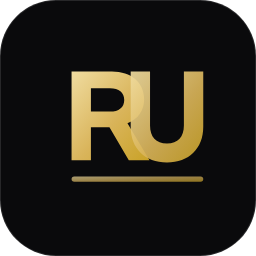
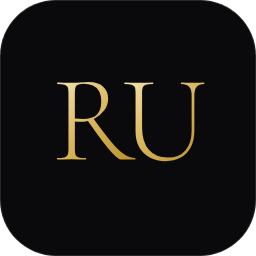
Entrada no Modelo 2: monograma RU tipografico, cartao de vidro; R2ON no endereco que abre
Claude-Session: https://claude.ai/code/session_01GTXdBA6AKHgiV8uL2GHMbv

Changed region(s): [[0.2188, 0.25, 0.8125, 0.6562], [0.2812, 0.6875, 0.8125, 0.7188]]

diff --git a/public/css/telas.css b/public/css/telas.css
@@ -4,82 +4,123 @@
 .entrada {
   min-height: 100%;
   display: grid;
-  grid-template-columns: 1fr 1fr;
+  grid-template-columns: 1.1fr 1fr;
+  background:
+    radial-gradient(70% 60% at 30% 40%, rgba(217, 180, 90, 0.14), transparent 60%), #050506;
 }
 .entrada-marca {
-  background: #050506;
   color: #efebe2;
-  padding: 48px;
+  padding: 8%;
   display: flex;
   flex-direction: column;
   justify-content: center;
-  gap: 18px;
+  gap: 22px;
   border-right: 1px solid rgba(255, 255, 255, 0.085);
 }
-.logo-grande {
-  width: 112px;
-  height: 112px;
-  border-radius: 28px;
-  background: #0a0a0c;
-  border: 1px solid rgba(255, 255, 255, 0.12);
-  padding: 12px;
+.entrada-icone {
+  width: 128px;
+  height: 128px;
+  border-radius: 31px;
+  display: grid;
+  place-items: center;
+  background: linear-gradient(160deg, #1a1a1f 0%, #0a0a0c 70%);
+  box-shadow:
+    0 1px 0 rgba(255, 255, 255, 0.14) inset,
+    0 0 0 1px rgba(255, 255, 255, 0.08),
+    0 30px 50px -25px rgba(0, 0, 0, 1);
+}
+.entrada-icone img {
+  width: 100px;
+  height: 100px;
+  display: block;
 }
 .entrada-marca h1 {
-  font-size: 34px;
+  font-size: 32px;
   letter-spacing: -0.02em;
 }
 .entrada-frase {
   color: #9c958a;
-  font-size: 16px;
-  max-width: 34ch;
+  font-size: 15px;
+  max-width: 32ch;
 }
 .entrada-numeros {
   display: flex;
-  gap: 1px;
+  gap: 30px;
   margin: 10px 0 0;
-  background: rgba(255, 255, 255, 0.085);
-  border: 1px solid rgba(255, 255, 255, 0.085);
-  border-radius: 10px;
-  overflow: hidden;
-  width: fit-content;
 }
 .entrada-numeros div {
-  background: #0f0f12;
-  padding: 10px 22px;
-  min-width: 110px;
+  border-left: 1px solid rgba(255, 255, 255, 0.16);
+  padding-left: 14px;
 }
 .entrada-numeros dt {
-  font-size: 10.5px;
-  letter-spacing: 0.14em;
+  font-size: 10px;
+  letter-spacing: 0.16em;
   text-transform: uppercase;
   color: #6b665d;
   font-weight: 600;
 }
 .entrada-numeros dd {
-  margin: 0;
-  font-size: 24px;
-  font-weight: 600;
+  margin: 2px 0 0;
+  font-size: 22px;
+  font-weight: 500;
   color: #f0dca0;
 }
 .entrada-form {
-  display: flex;
-  align-items: center;
-  justify-content: center;
+  display: grid;
+  place-items: center;
   padding: 32px 16px;
-  background: var(--painel);
 }
-.entrada-form-miolo {
-  width: min(380px, 100%);
+.entrada-cartao {
+  width: min(360px, 100%);
+  border-radius: 18px;
+  padding: 30px;
+  background: rgba(23, 23, 27, 0.72);
+  backdrop-filter: blur(18px);
+  -webkit-backdrop-filter: blur(18px);
+  border: 1px solid rgba(255, 255, 255, 0.1);
+  box-shadow:
+    0 1px 0 rgba(255, 255, 255, 0.08) inset,
+    0 40px 60px -30px rgba(0, 0, 0, 0.9);
+  color: #efebe2;
+}
+.entrada-cartao .sec {
+  color: #9c958a;
+}
+.entrada-cartao label {
+  color: #9c958a;
+}
+.entrada-cartao input[type='email'],
+.entrada-cartao input[type='password'] {
+  background: rgba(0, 0, 0, 0.35);
+  border-color: rgba(255, 255, 255, 0.12);
+  color: #efebe2;
+}
+.entrada-cartao input:focus-visible {
+  outline: none;
+  border-color: #d9b45a;
+  box-shadow: 0 0 0 3px rgba(217, 180, 90, 0.18);
+}
+.entrada-cartao .botao.ouro {
+  background: linear-gradient(180deg, #e6c46a, #c9a227);
+  border-color: transparent;
+  color: #0a0a0c;
+  box-shadow: 0 1px 0 rgba(255, 255, 255, 0.35) inset;
+}
+.entrada-cartao .marcar {
+  color: #efebe2;
 }
 .entrada-plaquinha {
-  margin-bottom: 18px;
+  width: 40px;
+  height: 40px;
+  border-radius: 11px;
+  margin-bottom: 8px;
 }
 .entrada-form h2 {
-  font-size: 22px;
+  font-size: 19px;
 }
 .entrada-form .sec {
   margin-top: 4px;
-  font-size: 13px;
+  font-size: 12.5px;
 }
 .entrada-linha {
   display: flex;
@@ -87,11 +128,12 @@
   align-items: center;
   gap: 10px;
   margin: 14px 0 18px;
-  font-size: 13px;
+  font-size: 12px;
 }
 .entrada-nota {
-  font-size: 12px;
-  margin-top: 16px;
+  font-size: 11.5px;
+  margin-top: 14px;
+  text-align: center;
 }
 
 /* ---------------------------------------------------------------- hoje */
@@ -753,6 +795,12 @@
   }
   .entrada-marca {
     display: none;
+  }
+  .entrada-form {
+    padding: 24px 16px;
+  }
+  .entrada-cartao {
+    padding: 24px 20px;
   }
   .corpo {
     grid-template-columns: 1fr;

diff --git a/public/index.html b/public/index.html
@@ -29,7 +29,9 @@
     <!-- Tela de entrada: nada do painel é montado sem sessão válida. -->
     <section id="entrada" class="entrada" hidden>
       <div class="entrada-marca">
-        <img class="logo-grande" src="/logo/ru.svg" alt="Monograma RU" width="112" height="112" />
+        <div class="entrada-icone">
+          <img src="/logo/ru.svg" alt="Monograma RU" width="128" height="128" />
+        </div>
         <h1>Rafael Ulian</h1>
         <p class="entrada-frase">Uma porta só para o seu dia: o checklist e todos os sistemas.</p>
         <dl class="entrada-numeros">
@@ -48,9 +50,9 @@
         </dl>
       </div>
       <div class="entrada-form">
-        <div class="entrada-form-miolo">
-          <div class="plaquinha grande entrada-plaquinha">
-            <img src="/logo/ru.svg" alt="" width="40" height="40" />
+        <div class="entrada-cartao">
+          <div class="plaquinha entrada-plaquinha">
+            <img src="/logo/ru.svg" alt="" width="28" height="28" />
           </div>
           <h2>Entrar no painel</h2>
           <p class="sec">Use o e-mail e a senha do seu acesso.</p>
@@ -75,7 +77,7 @@
             <button type="submit" class="botao ouro largo" id="entrar-botao">Entrar</button>
           </form>
           <p class="entrada-nota sec">
-            Primeiro acesso? Use “Esqueci minha senha” para receber o link por e-mail.
+            Primeiro acesso? Use “Esqueci minha senha” para receber o link.
           </p>
         </div>
       </div>

diff --git a/public/js/sistemas.js b/public/js/sistemas.js
@@ -36,7 +36,7 @@ export const SISTEMAS = {
   outros: [
     {
       nome: 'R2ON',
-      url: 'https://r2on.com',
+      url: 'https://r2on.netlify.app',
       icone: G(['#9C958A', '#1B1A17'], 'R2'),
     },
   ],
